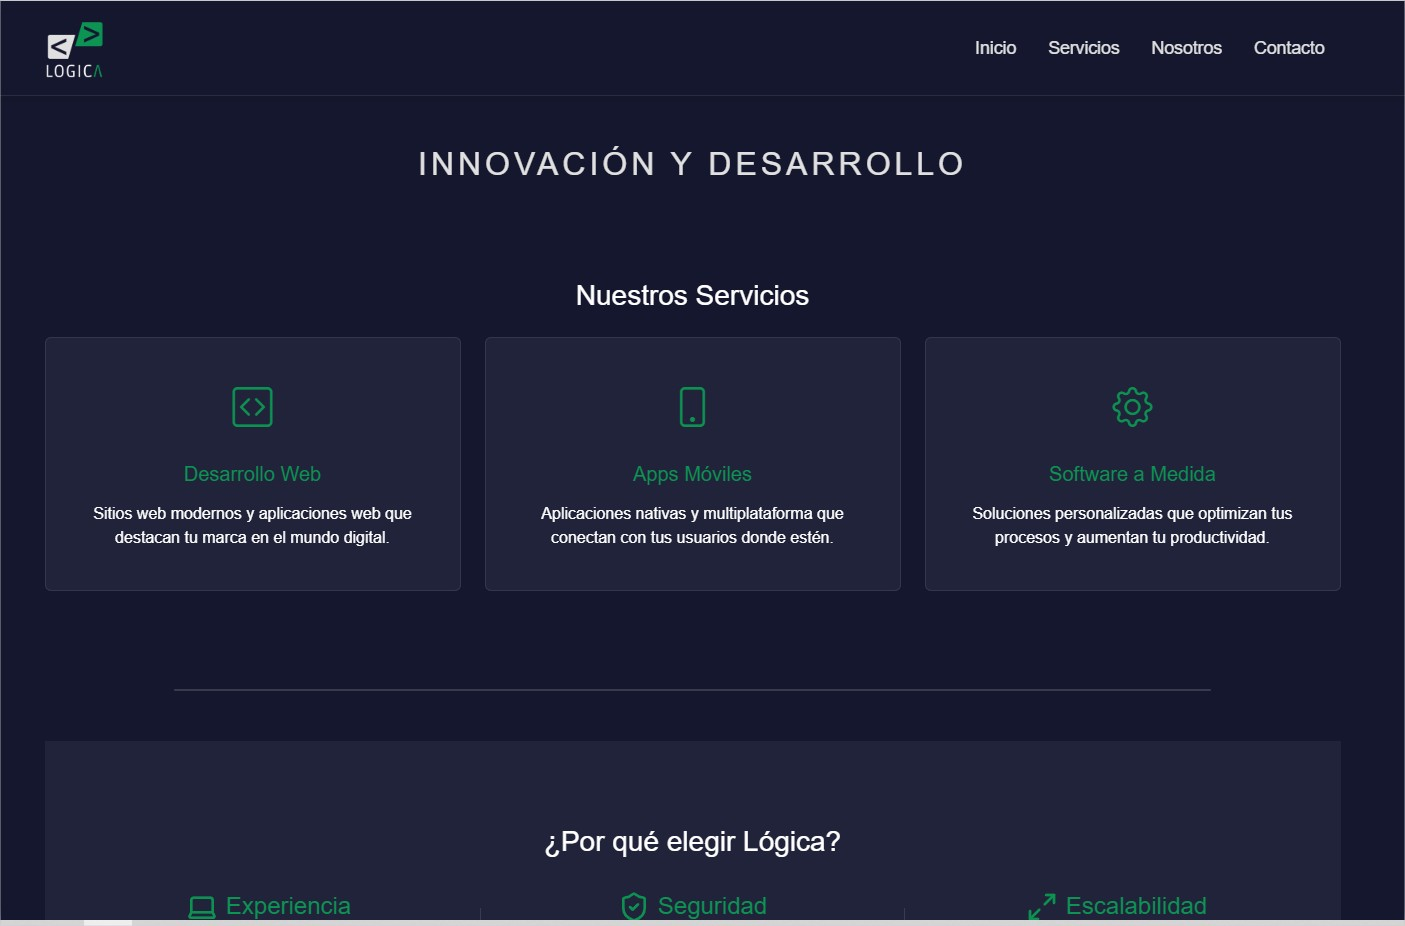
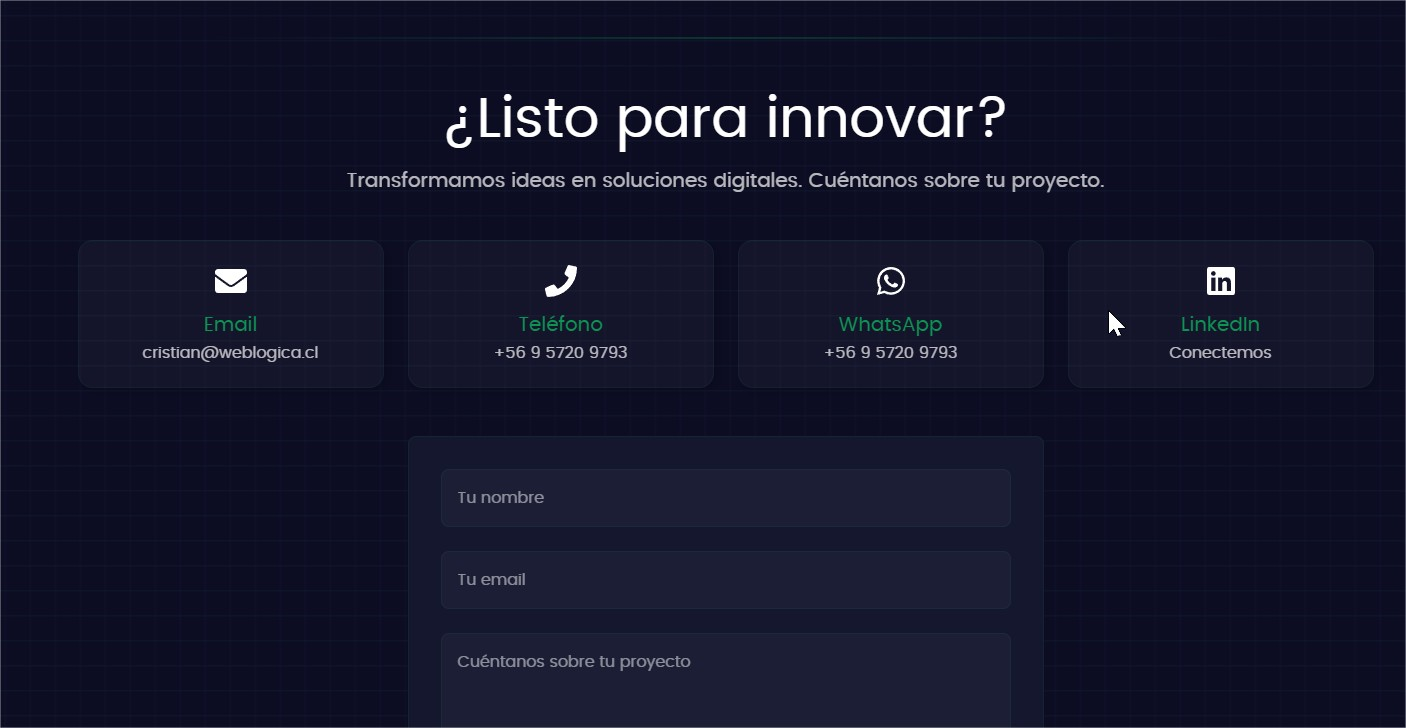
feat: Actualización de estilos y contenido del portafolio

diff --git a/index.html b/index.html
@@ -18,7 +18,7 @@
                 </div>
                 <div class="name-title">
                     <h1>Cristian Godoy Angel</h1>
-                    <h2>Full Stack Developer | Java & .NET | Chile 🇨🇱</h2>
+                    <h2>Desarrollador FullStack | Java | Spring Boot | .Net | Microservicios | OCI | DevOps
                 </div>
             </div>
         </header>
@@ -139,30 +139,31 @@
                         <h3 class="project-title">Inventario360</h3>
                         <p class="project-description">Sistema de gestión de inventario en tiempo real con tecnología .NET Core y React.</p>
                         <div class="tech-stack">
-                            <span class="tech-tag">.NET Core</span>
-                            <span class="tech-tag">React</span>
+                            <span class="tech-tag">C#</span>
+                            <span class="tech-tag">Tailwind CSS</span>
+                            <span class="tech-tag">Bootstrap</span>
                             <span class="tech-tag">SQL Server</span>
                         </div>
                         <div class="project-links">
-                            <a href="#" class="project-link"><i class="fas fa-globe"></i> Demo</a>
-                            <a href="#" class="project-link"><i class="fab fa-github"></i> Código</a>
+                           
+                            <a href="https://github.com/cristiangodoyangel/Inventario360" class="project-link"><i class="fab fa-github"></i> Código</a>
                         </div>
                     </div>
                 </div>
 
                 <div class="project-card">
-                    <img src="assets/logica.jpg" alt="Logica.net" class="project-img">
+                    <img src="assets/logica.jpg" alt="weblogica.cl" class="project-img">
                     <div class="project-content">
-                        <h3 class="project-title">Logica</h3>
-                        <p class="project-description">Plataforma educativa para el aprendizaje de lógica de programación.</p>
+                        <h3 class="project-title">Lógica</h3>
+                        <p class="project-description">Página web para www.weblogica.cl, orientado al software e innovación.</p>
                         <div class="tech-stack">
-                            <span class="tech-tag">ASP.NET</span>
-                            <span class="tech-tag">Angular</span>
-                            <span class="tech-tag">MongoDB</span>
+                            <span class="tech-tag">JavaScript</span>
+                            <span class="tech-tag">CSS</span>
+                            <span class="tech-tag">HTML</span>
                         </div>
                         <div class="project-links">
-                            <a href="#" class="project-link"><i class="fas fa-globe"></i> Demo</a>
-                            <a href="#" class="project-link"><i class="fab fa-github"></i> Código</a>
+                            <a href="https://www.weblogica.cl/" class="project-link"><i class="fas fa-globe"></i> Link</a>
+                            <a href="https://github.com/cristiangodoyangel/Logica_Web" class="project-link"><i class="fab fa-github"></i> Código</a>
                         </div>
                     </div>
                 </div>
@@ -173,16 +174,40 @@
                         <h3 class="project-title">M360</h3>
                         <p class="project-description">Página web para empresa de alquiler de vehículos y equipamiento minero..</p>
                         <div class="tech-stack">
-                            <span class="tech-tag">Java</span>
-                            <span class="tech-tag">Spring Boot</span>
-                            <span class="tech-tag">Vue.js</span>
+                            <span class="tech-tag">PHP</span>
+                            <span class="tech-tag">HTML</span>
+                            <span class="tech-tag">CSS</span>
                         </div>
                         <div class="project-links">
-                            <a href="#" class="project-link"><i class="fas fa-globe"></i> Demo</a>
-                            <a href="#" class="project-link"><i class="fab fa-github"></i> Código</a>
+                            <a href="http://www.motors360.cl" class="project-link" target="_blank" rel="noopener noreferrer">
+                                <i class="fas fa-globe"></i> Link
+                              </a>
+                              
+                            
                         </div>
                     </div>
                 </div>
+
+                <div class="project-card">
+                    <img src="assets/pmt.jpg" alt="pmtintegra.cl" class="project-img">
+                    <div class="project-content">
+                        <h3 class="project-title">PMT</h3>
+                        <p class="project-description">Página web para www.pmtintegra.cl, empresa de servicios de proyecto para la minería.</p>
+                        <div class="tech-stack">
+                            <span class="tech-tag">PHP</span>
+                            <span class="tech-tag">HTML</span>
+                            <span class="tech-tag">CSS</span>
+                        </div>
+                        <div class="project-links">
+                            <a href="http://www.pmtintegra.cl" class="project-link" target="_blank" rel="noopener noreferrer">
+                                <i class="fas fa-globe"></i> Link
+                              </a>
+                              
+                            
+                        </div>
+                    </div>
+                </div>
+
             </section>
 
             <section class="certifications-section">

diff --git a/css/styles.css b/css/styles.css
@@ -90,32 +90,26 @@
 }
 
 body {
-    font-family: 'Poppins', sans-serif;
-    background: var(--bg-primary);
-    color: var(--text-primary);
-    line-height: 1.6;
-    min-height: 100vh;
+    background-color: #15172e !important;
+    color: #e0e0e0 !important;
+    font-family: Arial, sans-serif;
+    background-image: 
+    linear-gradient(rgba(21, 23, 46, 0.95), rgba(21, 23, 46, 0.6)),
+    url('../assets/back.svg');
+    background-size: 100% auto;
+    background-position: center;
+    background-repeat: repeat;
+    background-attachment: fixed;
     position: relative;
     overflow-x: hidden;
-}
-
-body::before {
-    content: '';
-    position: fixed;
-    top: 0;
-    left: 0;
-    right: 0;
-    bottom: 0;
-    background: 
-        linear-gradient(transparent 0%, rgba(125, 95, 255, 0.05) 100%),
-        linear-gradient(90deg, transparent 0%, rgba(100, 255, 218, 0.05) 100%),
-        linear-gradient(0deg, rgba(125, 95, 255, 0.1) 1px, transparent 1px),
-        linear-gradient(90deg, rgba(100, 255, 218, 0.1) 1px, transparent 1px);
-    background-size: 100% 100%, 100% 100%, 25px 25px, 25px 25px;
-    animation: gridMove 20s linear infinite;
-    opacity: 0.3;
-    z-index: -1;
-}
+    animation: platinumShine 20s ease-in-out infinite;
+    /* animation: slowMove 20s ease-in-out infinite; */
+  }
+  
+  body::after {
+    content: none;
+  }
+  
 
 .container {
     max-width: 1400px;
